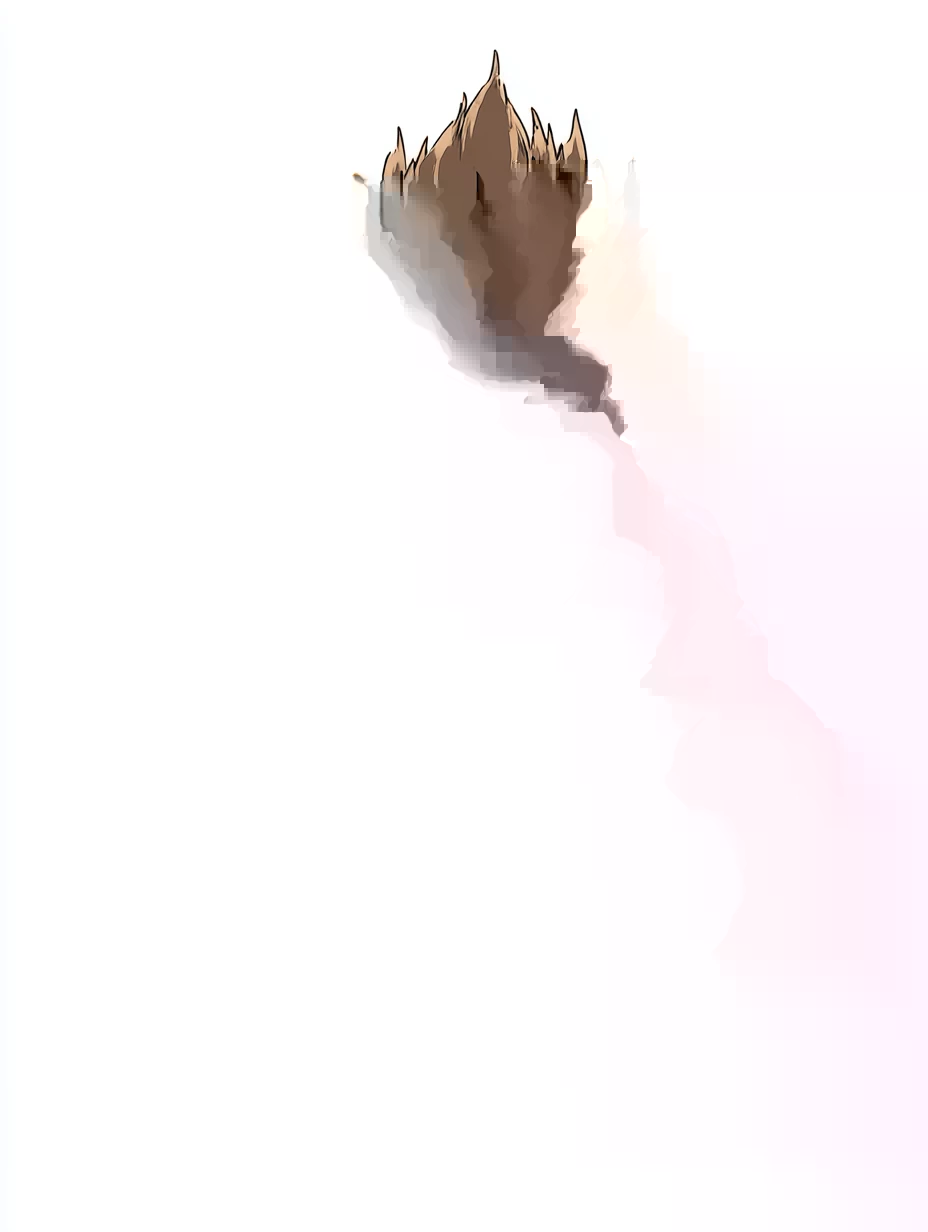
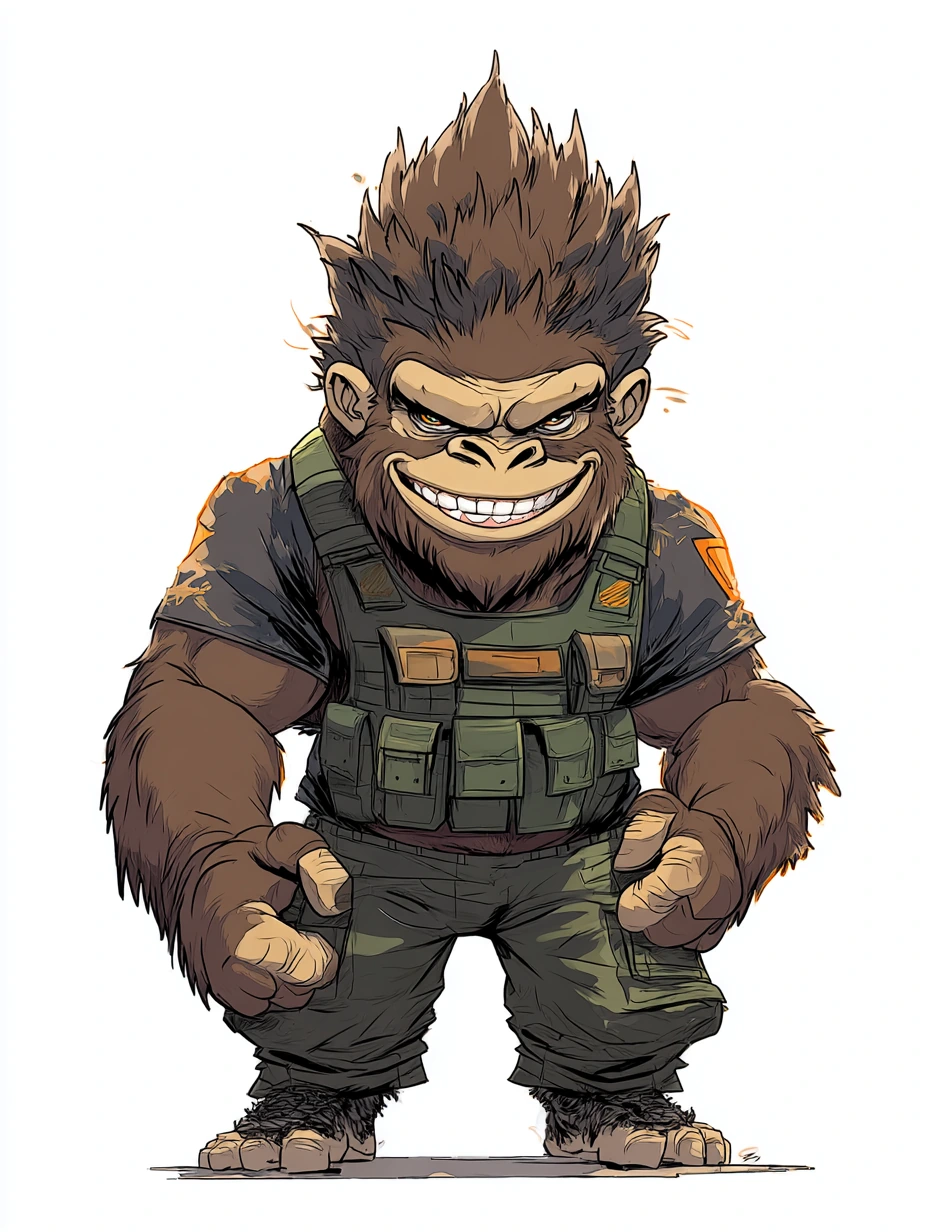
fix Rilaki character image

diff --git a/stories-data.js b/stories-data.js
@@ -11,7 +11,7 @@ const characters = [
     desc:"Rillas is the friendliest gorilla you'll ever meet. Trapped in a zoo for years, he secretly taught himself to speak by listening to humans — and the first thing he did with that skill was make two best friends. He loves bananas, tall trees, and a very clever plan." },
   { id:4,  name:"Rilena",      role:"Gorilla — Kind & Graceful", file:"characters/rilena_ref.webp",      unlocked:true,
     desc:"A kind and graceful female gorilla, freed from the Poachers' cage in Story 5. She has a warm smile that made Rillas's ears go red." },
-  { id:5,  name:"Rilaki",      role:"Gorilla Son",         file:"characters/rilaki_ref.webp",       unlocked:true,
+  { id:5,  name:"Rilaki",      role:"Gorilla Son",         file:"characters/rilaki_ref.webp?v=2",       unlocked:true,
     desc:"Rillas and Rilena's son — born in Story 10. Grows up with his dad's confident grin and love of tactical gear, and a wild spiky hairdo all his own." },
   { id:6,  name:"Maimudakis",  role:"Monkey — The Father", file:"characters/maimudakis_ref.webp",  unlocked:true,
     desc:"A wise and steady spider monkey — a father figure through and through. Freed from the Poachers' cage in Story 5, he was quick to say yes when Rillas asked to be friends." },

diff --git a/index.html b/index.html
@@ -1136,7 +1136,7 @@
 <audio id="audio-el" preload="none"></audio>
 
 <script src="https://code.responsivevoice.org/responsivevoice.js?key=FREE"></script>
-<script src="stories-data.js?v=13"></script>
+<script src="stories-data.js?v=14"></script>
 <script src="app.js?v=10"></script>
 </body>
 </html>
